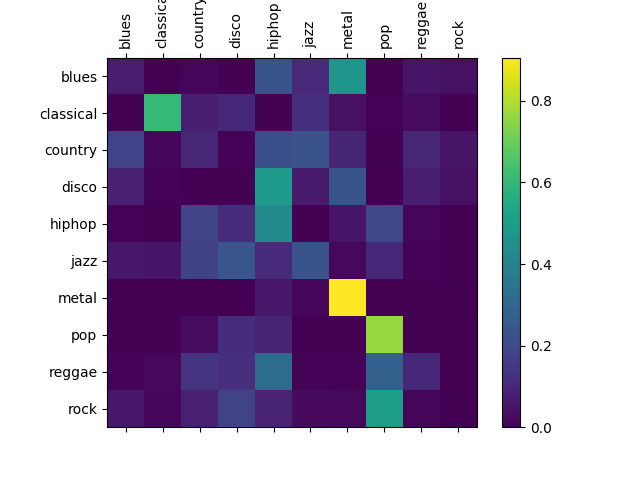
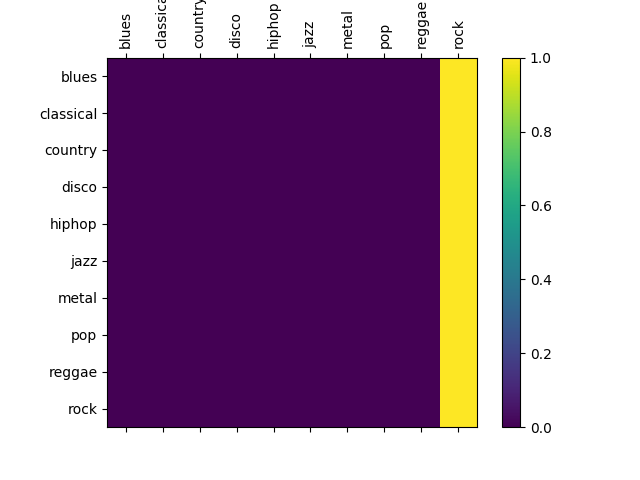
all test data validation but suffering loss nan problem does not include latest music model because it would be trash

diff --git a/torchRnn.py b/torchRnn.py
@@ -129,10 +129,10 @@ def validate():
     for i in range(0, x_test.shape[0] - batch_size, batch_size):
         for j in range(0, x_test.shape[1] - sample_length, sample_length):
             song_tensor = Variable(torch.from_numpy(np.swapaxes(x_test[i:i+batch_size, j:j+sample_length],0,1)))
-            genre_tensor = torch.nonzero(torch.from_numpy(y_target[i:i+batch_size]))[:,1]
+            genre_tensor = Variable(torch.nonzero(torch.from_numpy(y_test[i:i+batch_size]))[:,1])
             outputs = evaluate(song_tensor)
             losses.append(torch.mean(criterion(outputs, genre_tensor).data))
-            accuracies.append(accuracy(outputs, genre_tensor))
+            accuracies.append(accuracy(outputs, genre_tensor.data))
             guesses, guess_is = genreFromOutput(outputs)
             for k in range(batch_size):
                 confusion[genre_tensor.data[k]][guess_is[k]] += 1;
